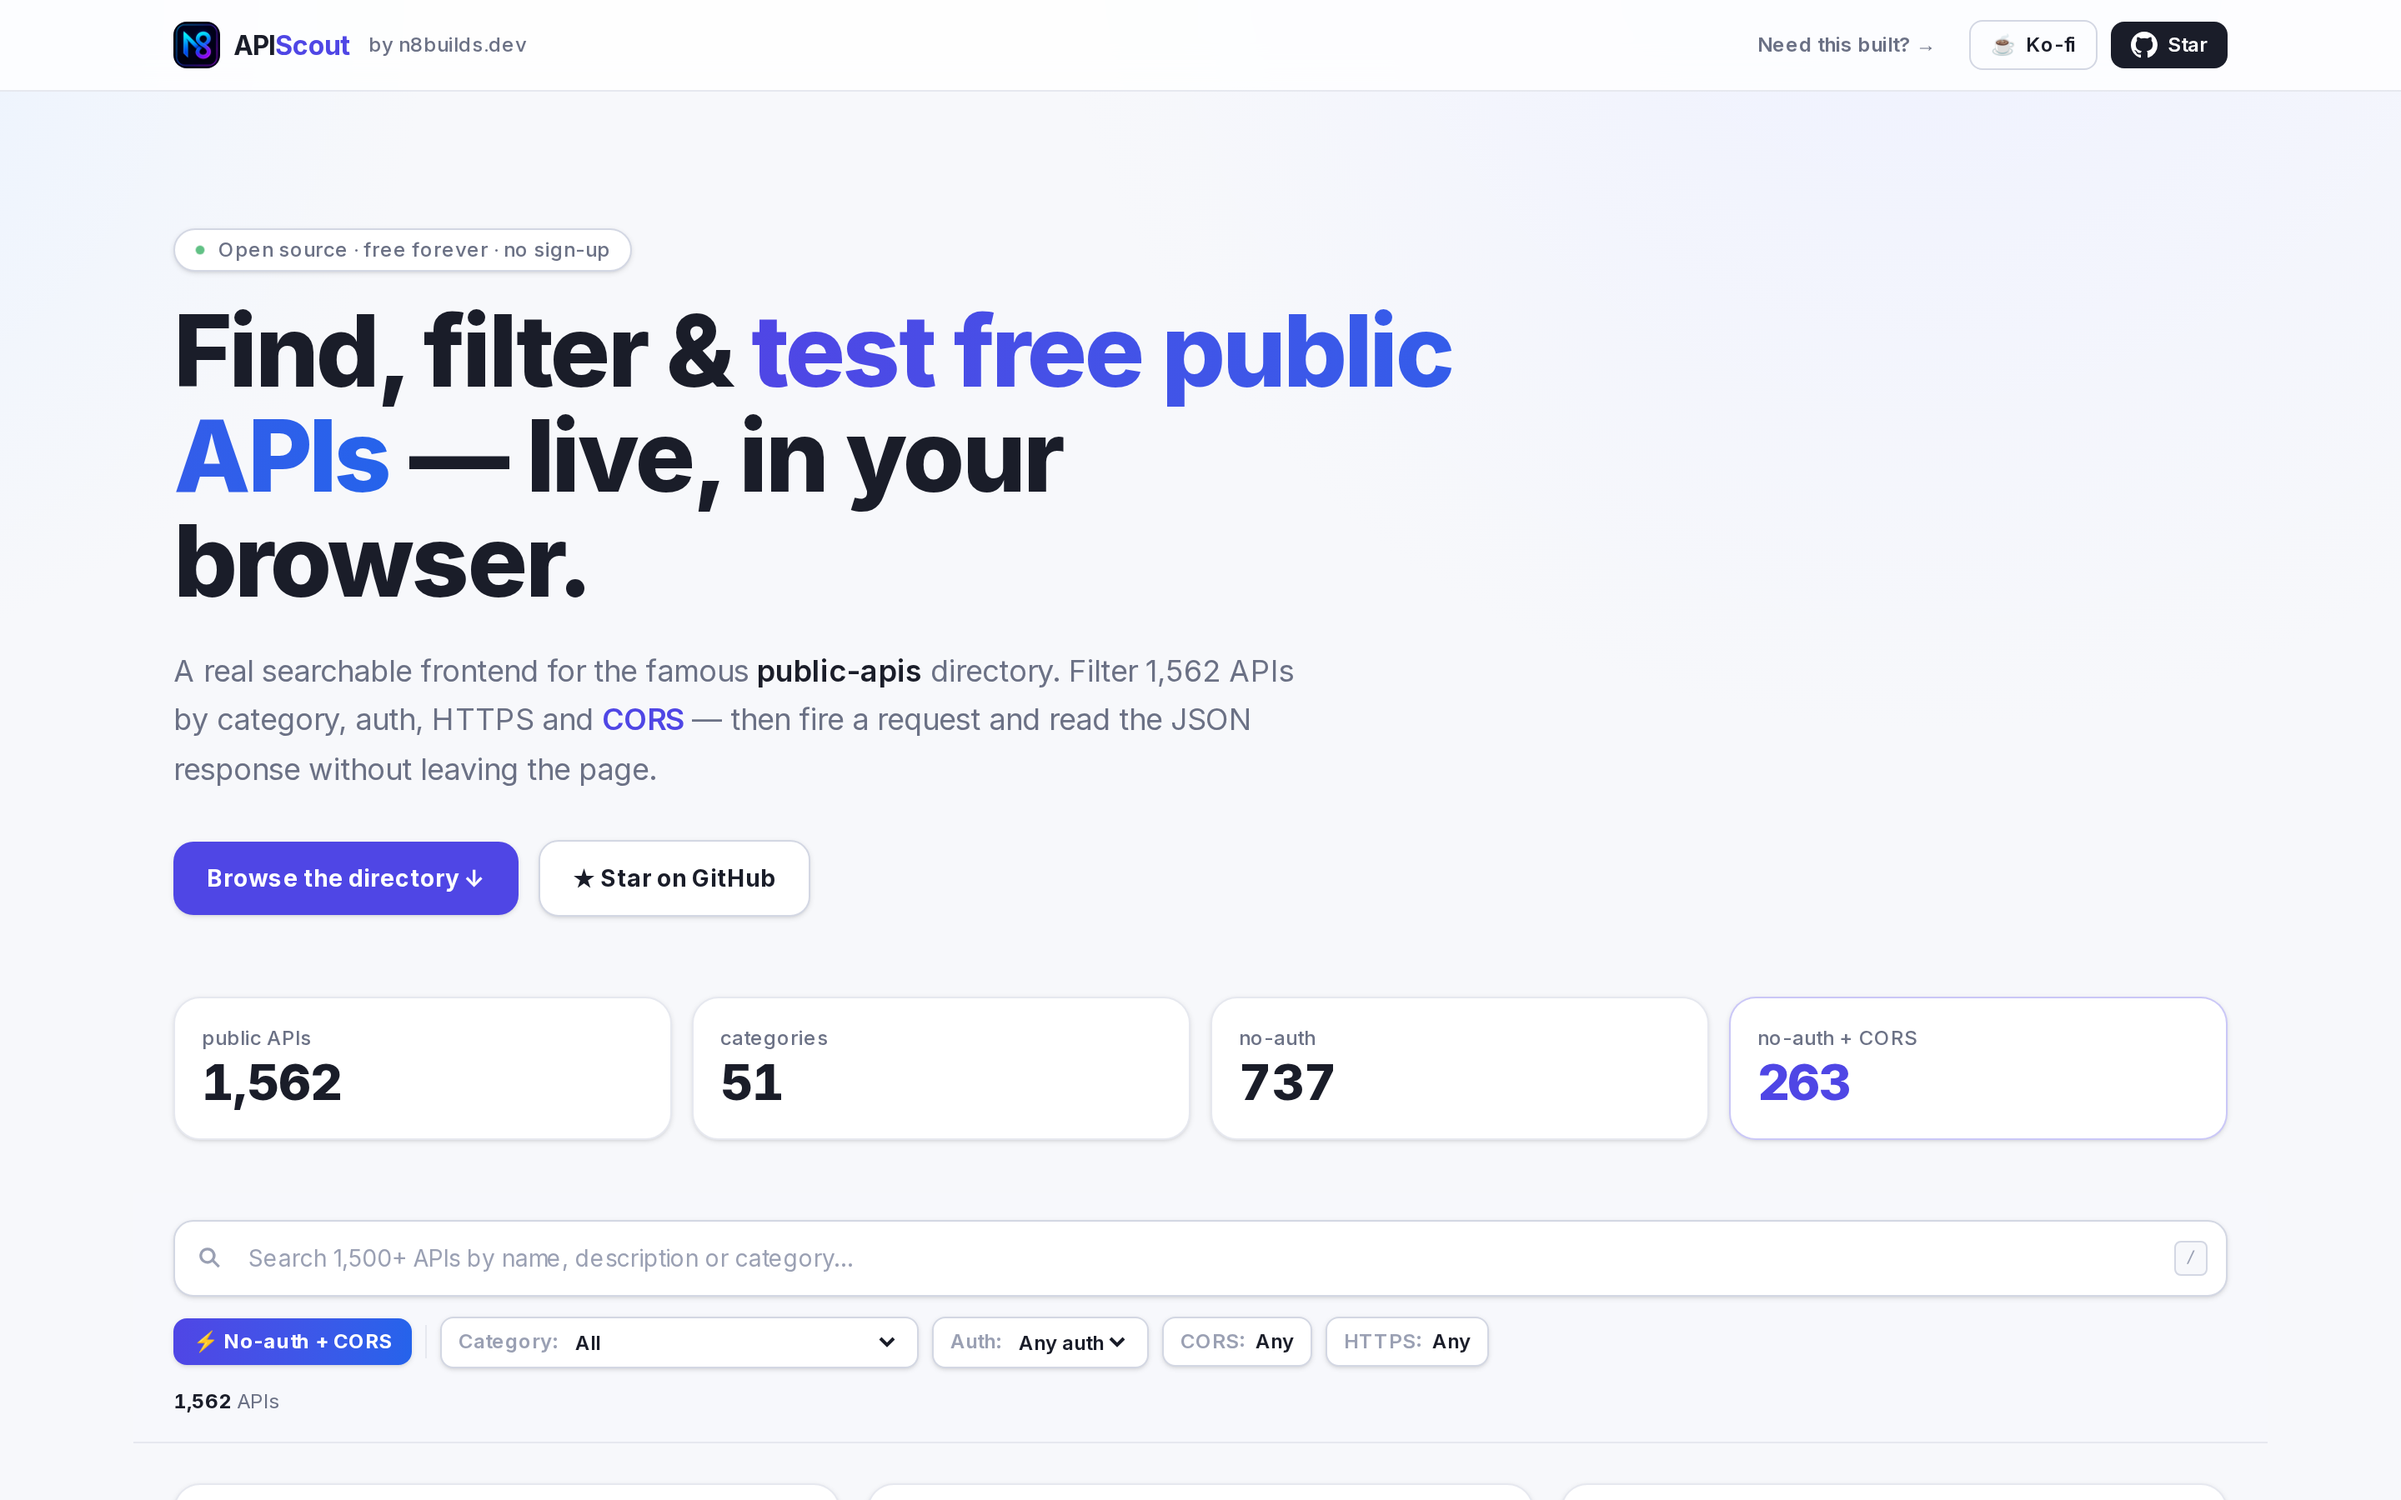
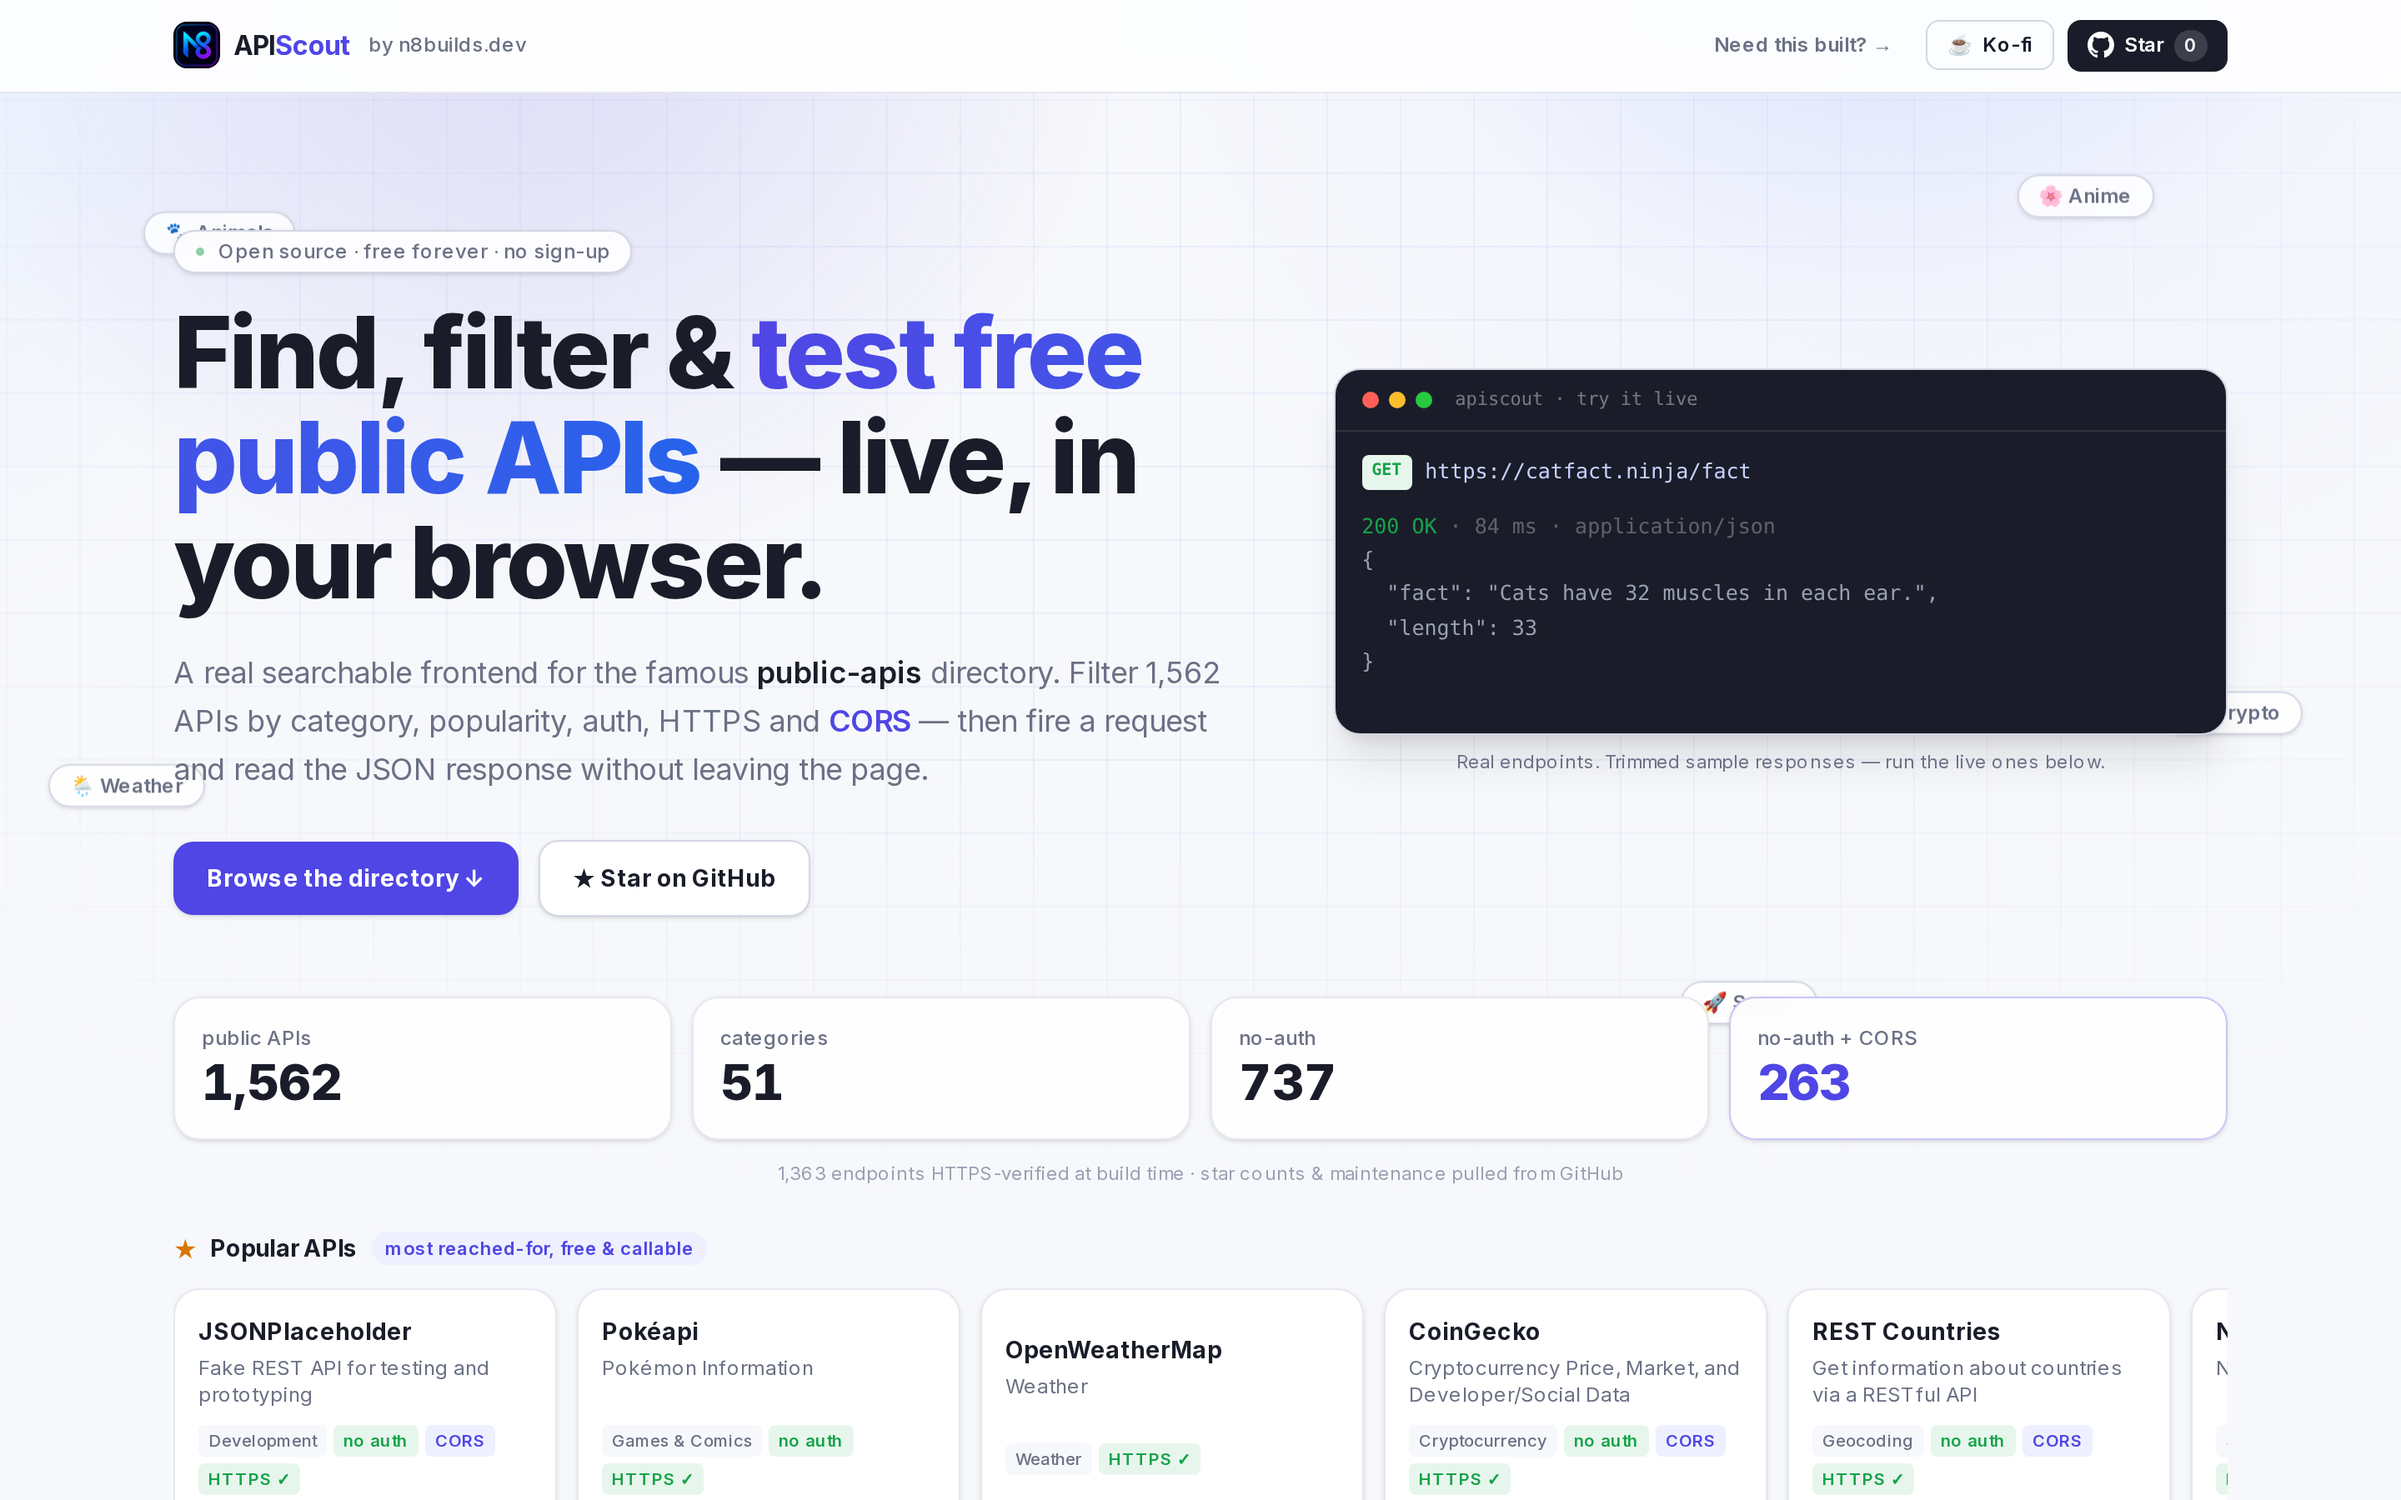
Refresh screenshots (hero/categories/playground); dedupe featured strip
- New animated-hero, category-rail and verified-playground screenshots.
- screenshot.mjs captures a categories shot and scopes the playground capture
  to the directory grid.
- featuredApis de-dupes by base hostname so api.x.com / x.com don't both show.

diff --git a/lib/data.ts b/lib/data.ts
@@ -43,12 +43,28 @@ export function sortApis(apis: Api[], key: SortKey): Api[] {
   }
 }
 
-/** The curated "Popular APIs" featured strip — top-ranked, callable entries. */
+/** The curated "Popular APIs" featured strip — top-ranked, callable entries,
+ * de-duped by hostname so near-identical upstream rows don't both show up. */
 export function featuredApis(apis: Api[], n = 8): Api[] {
-  return apis
+  const seen = new Set<string>();
+  const out: Api[] = [];
+  for (const a of apis
     .filter((a) => a.popularity)
-    .sort((a, b) => (a.popularity ?? 0) - (b.popularity ?? 0))
-    .slice(0, n);
+    .sort((a, b) => (a.popularity ?? 0) - (b.popularity ?? 0))) {
+    let host = "";
+    try {
+      host = new URL(a.url).hostname.replace(/^www\./, "").toLowerCase();
+    } catch {
+      host = a.name.toLowerCase();
+    }
+    // Collapse api.* and bare hosts (e.g. api.coingecko.com / coingecko.com).
+    const base = host.replace(/^api\./, "");
+    if (seen.has(base)) continue;
+    seen.add(base);
+    out.push(a);
+    if (out.length >= n) break;
+  }
+  return out;
 }
 
 /** GitHub repo star count for the project itself, cached at the edge. Best-effort:
